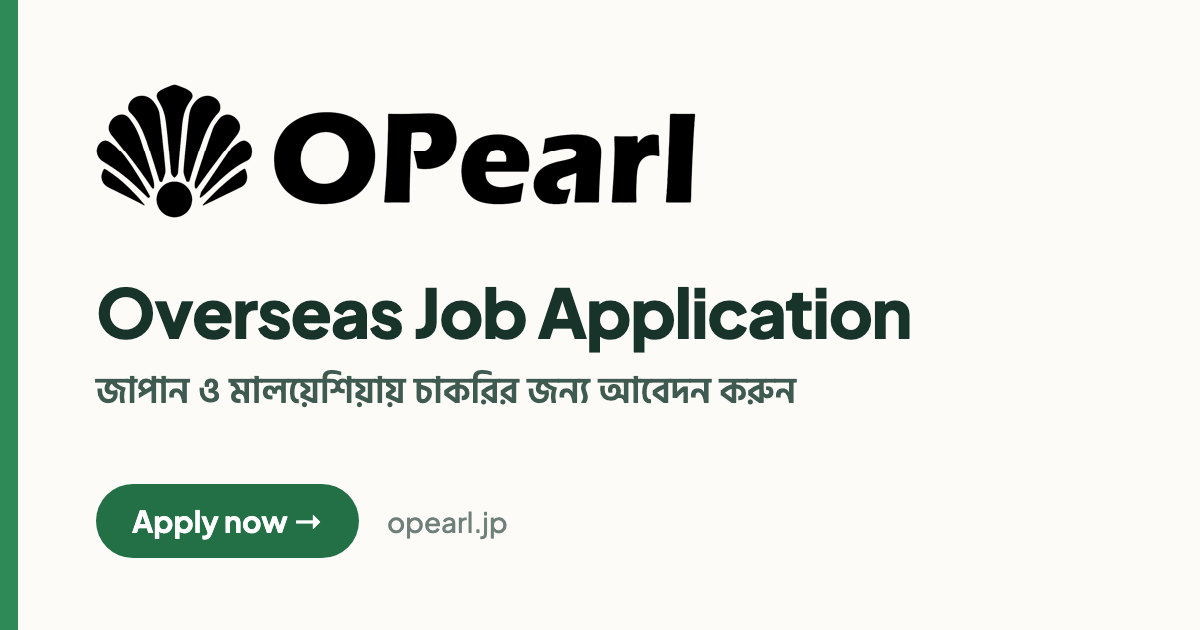
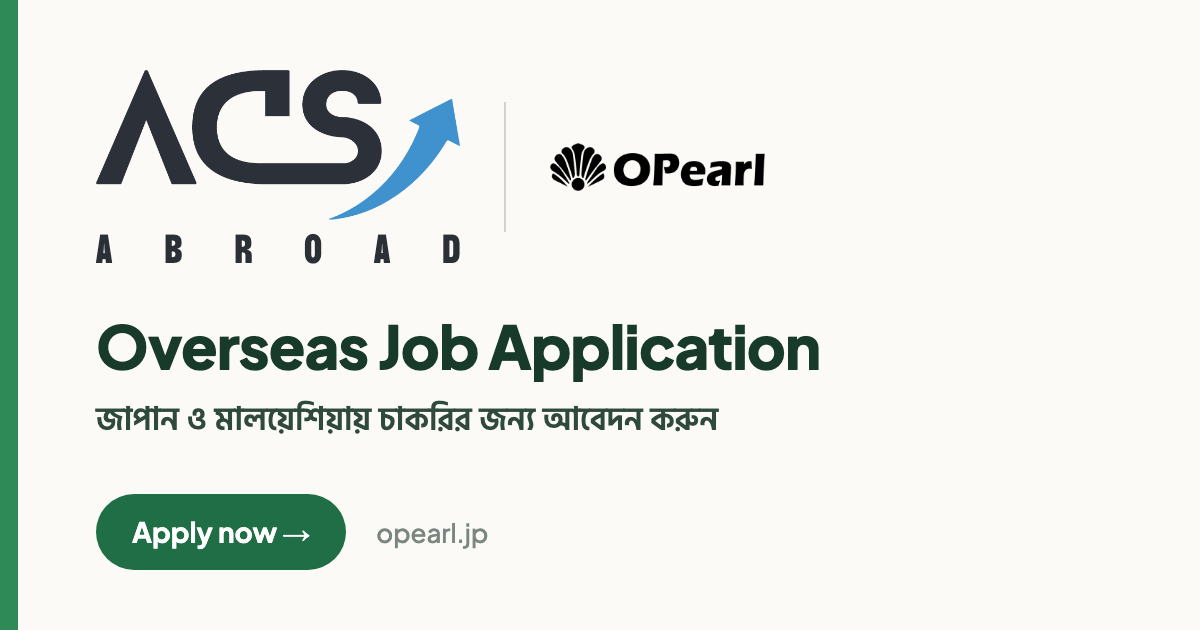
change og

diff --git a/application.html b/application.html
@@ -9,17 +9,17 @@
   <link rel="icon" href="https://opearl.jp/assets/img/opearl-mark.png">
   <meta property="og:title" content="OPearl — Overseas Job Application">
   <meta property="og:description" content="জাপান ও মালয়েশিয়ায় চাকরির জন্য আবেদন করুন। Apply for jobs in Japan and Malaysia.">
-  <meta property="og:image" content="https://opearl.jp/assets/img/og-application.png">
+  <meta property="og:image" content="https://opearl.jp/assets/img/og-application.png?v=2">
   <meta property="og:image:width" content="1200">
   <meta property="og:image:height" content="630">
-  <meta property="og:image:alt" content="OPearl — Overseas Job Application. Apply now at opearl.jp">
+  <meta property="og:image:alt" content="ACS Abroad and OPearl — Overseas Job Application. Apply now at opearl.jp">
   <meta property="og:type" content="website">
   <meta property="og:site_name" content="OPearl">
   <meta property="og:url" content="https://opearl.jp/application.html">
   <meta name="twitter:card" content="summary_large_image">
   <meta name="twitter:title" content="OPearl — Overseas Job Application">
   <meta name="twitter:description" content="জাপান ও মালয়েশিয়ায় চাকরির জন্য আবেদন করুন। Apply for jobs in Japan and Malaysia.">
-  <meta name="twitter:image" content="https://opearl.jp/assets/img/og-application.png">
+  <meta name="twitter:image" content="https://opearl.jp/assets/img/og-application.png?v=2">
   <link rel="preconnect" href="https://fonts.googleapis.com">
   <link href="https://fonts.googleapis.com/css2?family=Plus+Jakarta+Sans:wght@400;500;600;700;800&family=Hind+Siliguri:wght@400;500;600;700&family=Noto+Sans+JP:wght@400;500;700&family=BBH+Bogle&display=swap" rel="stylesheet">
   <style>
